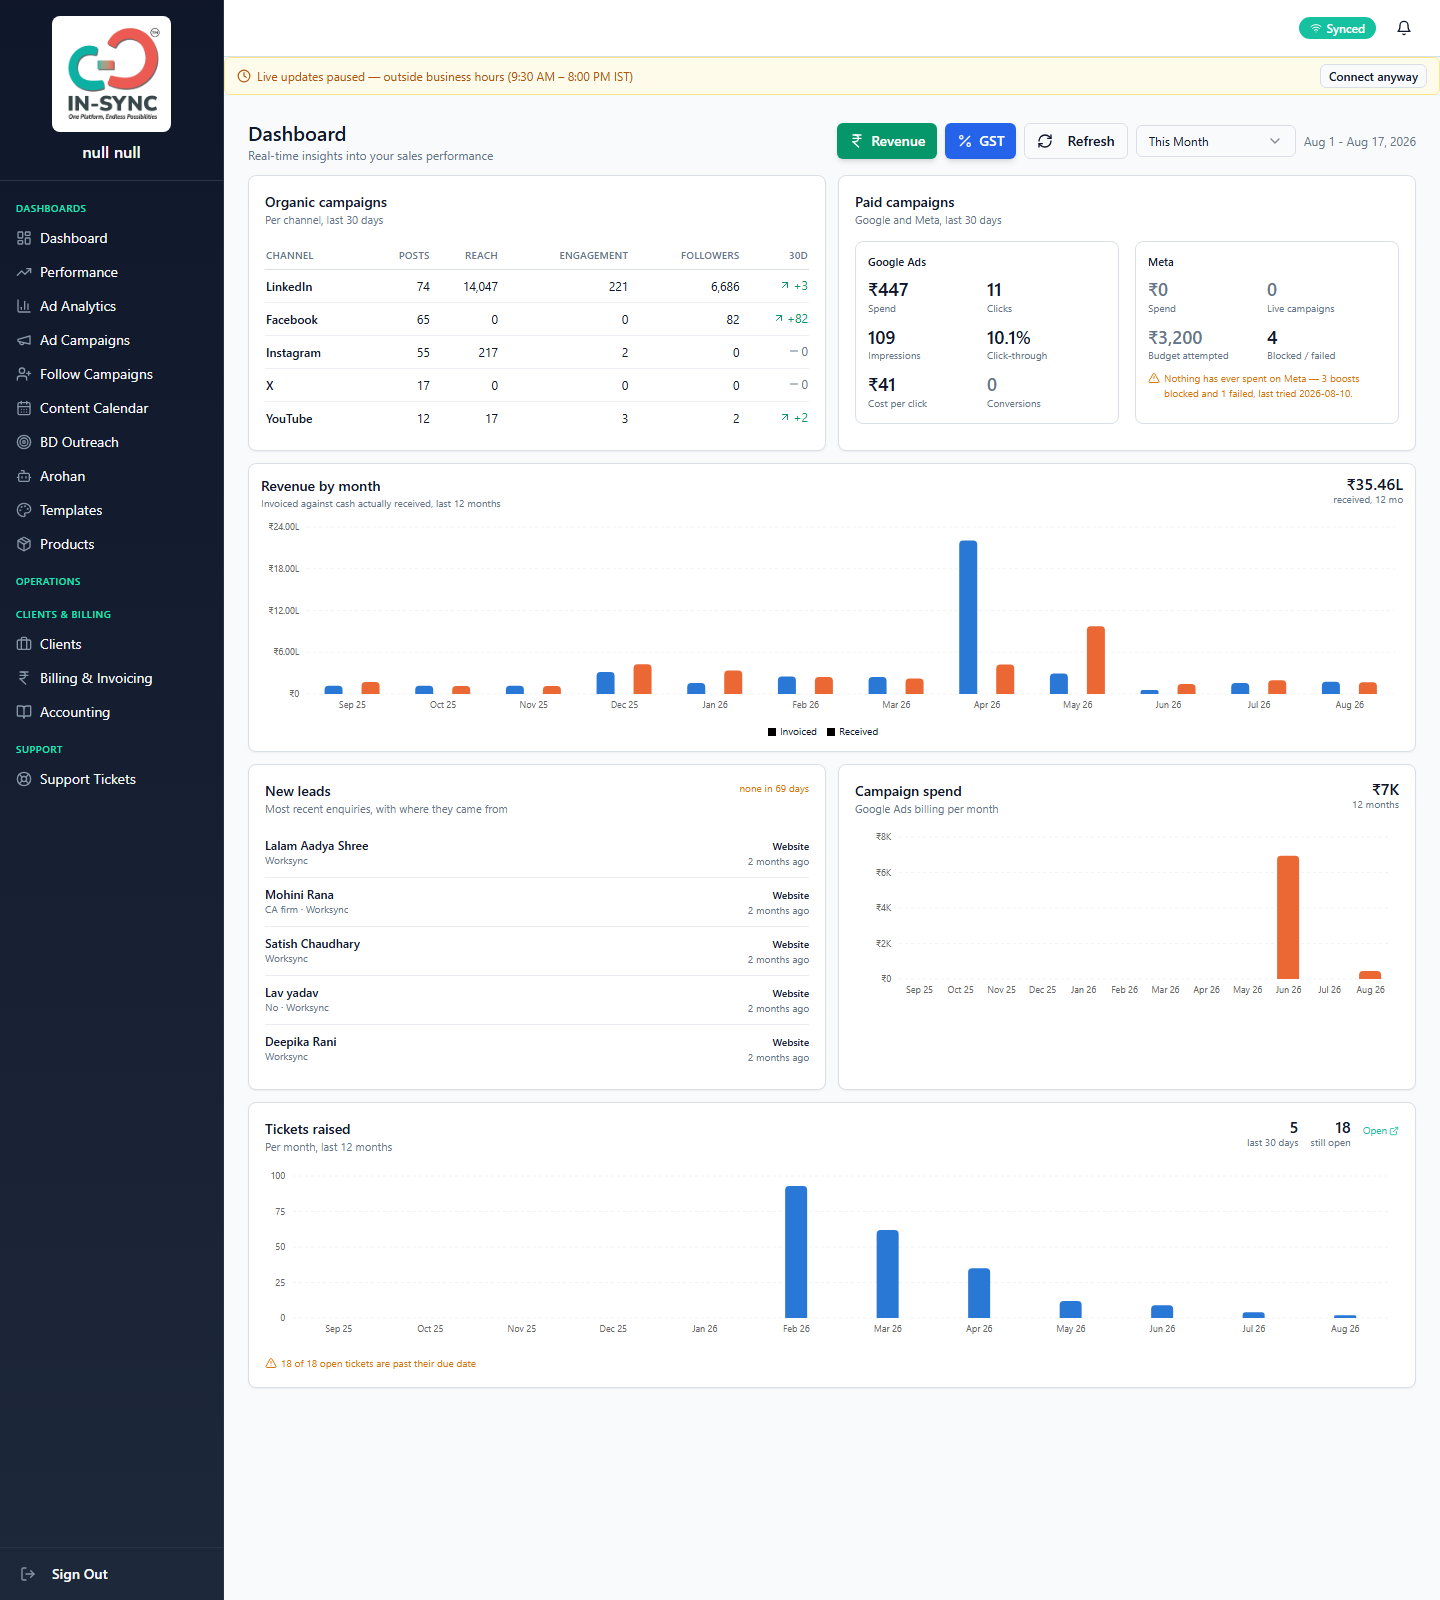
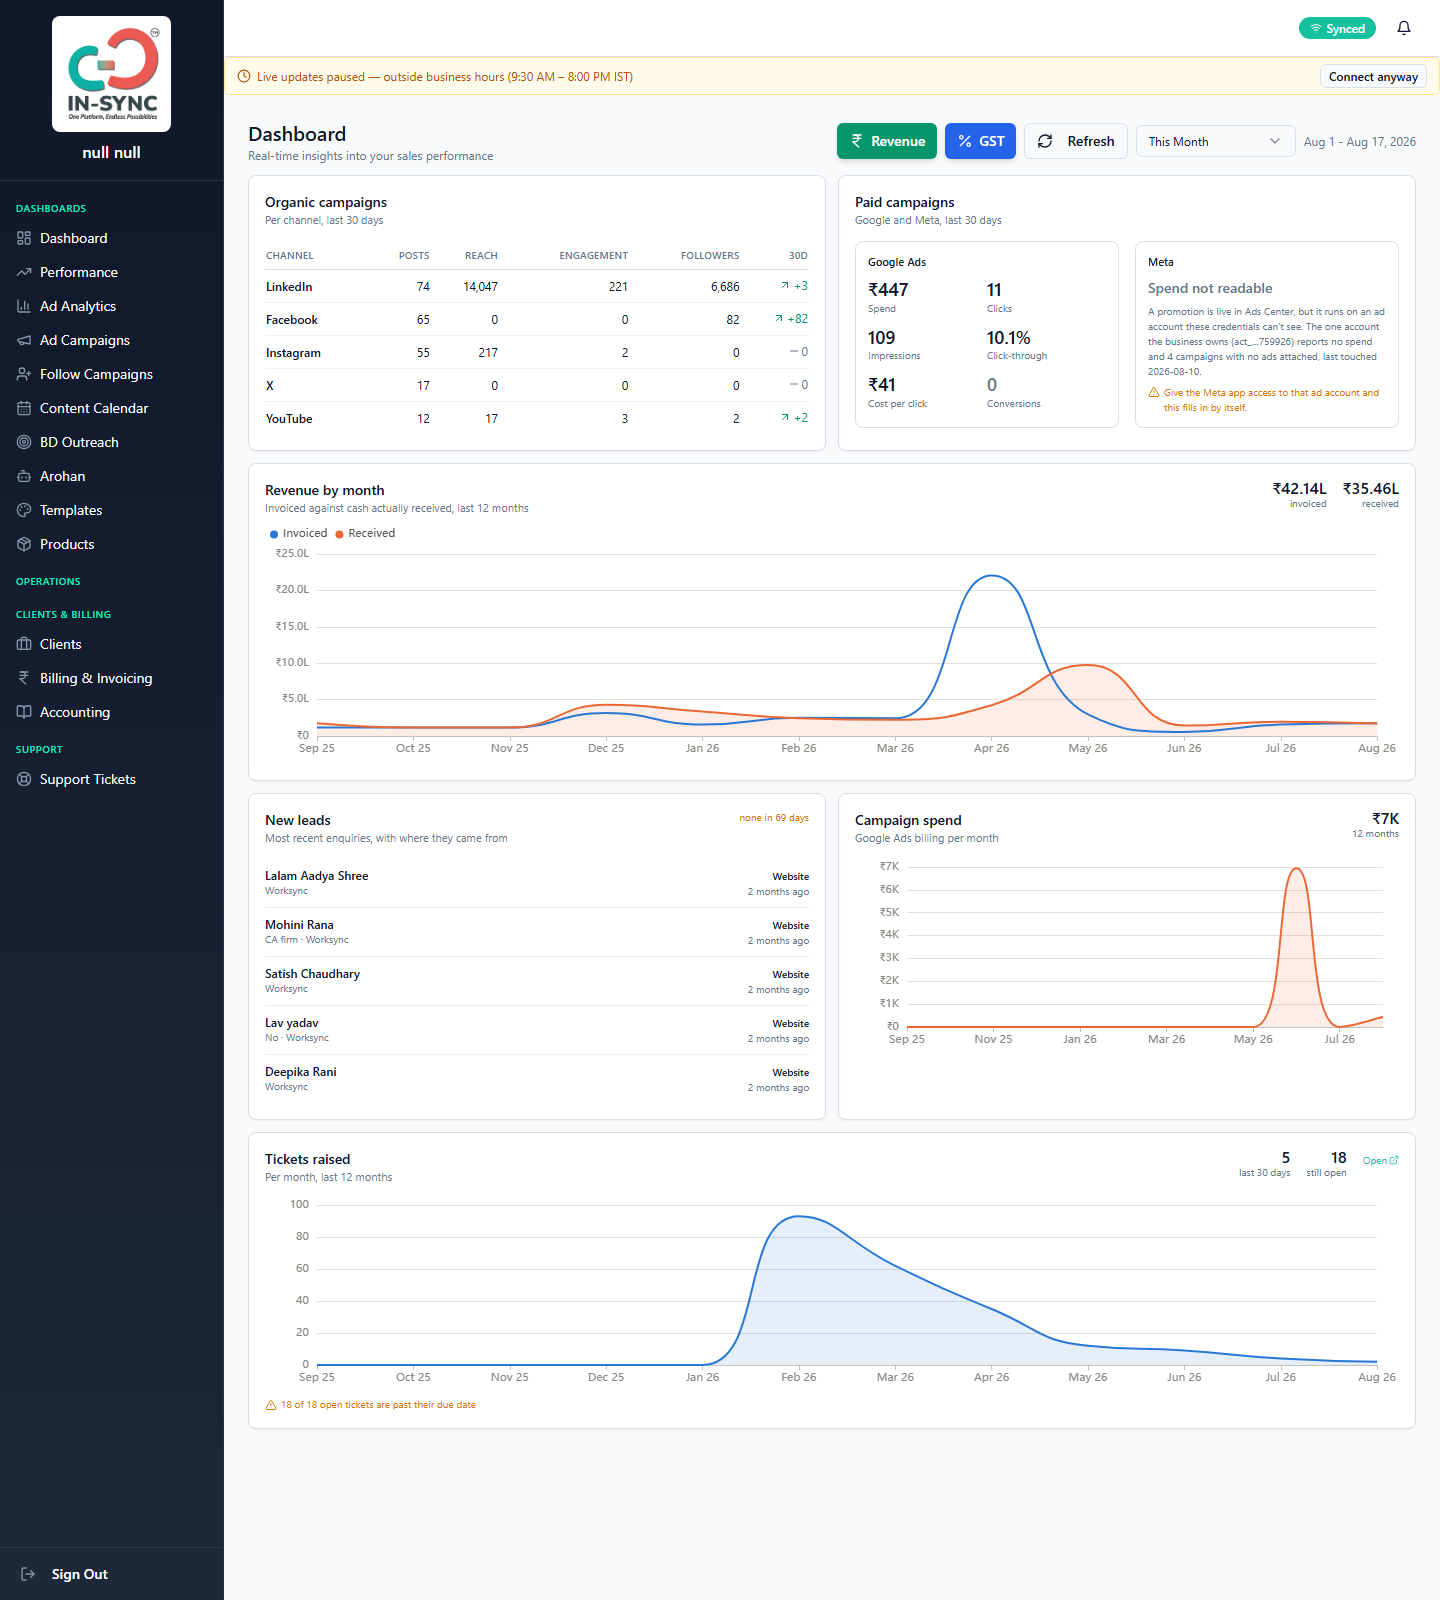
fix(dashboard): straight line segments, because smoothing invented data
Spline smoothing across twelve monthly readings drew shape that does not
exist: June's ad spend became a bell curve spanning May to July, and the
revenue line dipped below zero between points where no negative value exists.
Straight segments with visible points now, so each month reads as the single
measurement it is.

diff --git a/src/components/Dashboard/chartStyle.ts b/src/components/Dashboard/chartStyle.ts
@@ -82,10 +82,14 @@ export function lineChart(
     series: series.map((s) => ({
       name: s.name,
       type: "line" as const,
-      smooth: true,
+      // Straight segments with visible points. Spline smoothing on twelve
+      // monthly readings invents shape between them: a single month of ad
+      // spend became a bell curve spanning three, and the revenue line dipped
+      // below zero between points where nothing negative exists.
+      smooth: false,
       symbol: "circle" as const,
-      symbolSize: 6,
-      showSymbol: false,
+      symbolSize: 5,
+      showSymbol: true,
       lineStyle: { width: 2 },
       ...(s.area
         ? {
